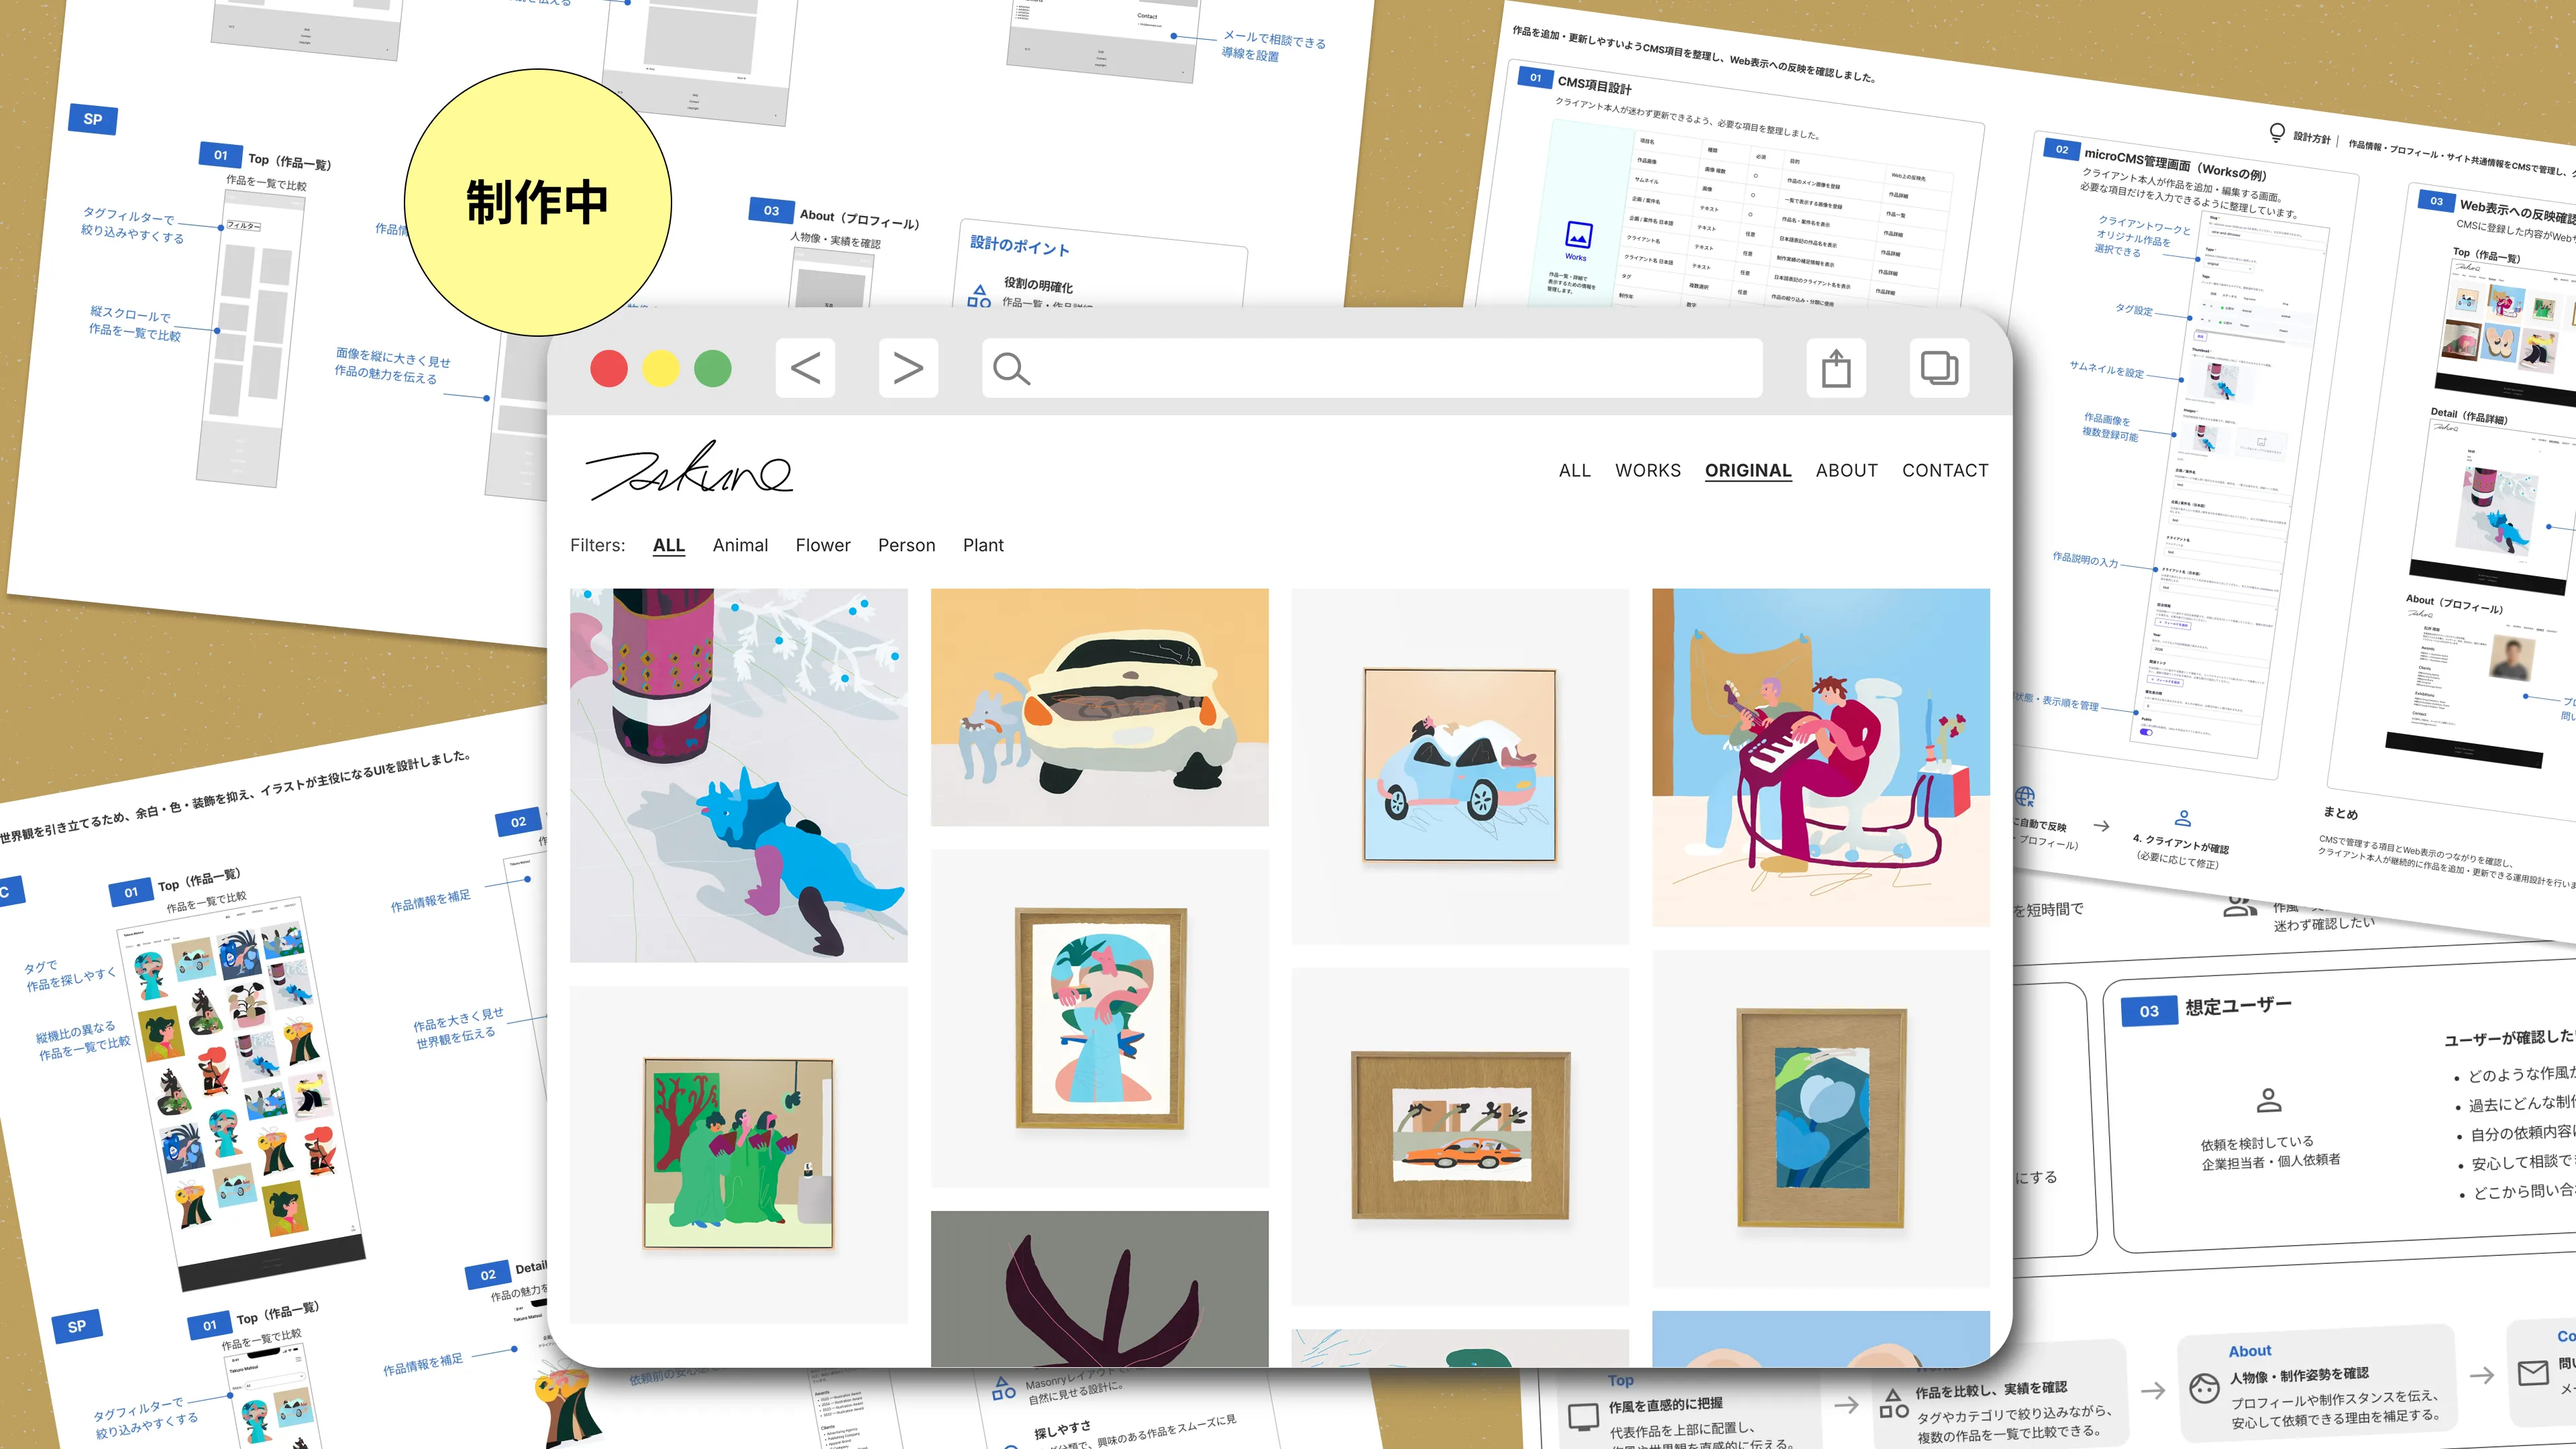
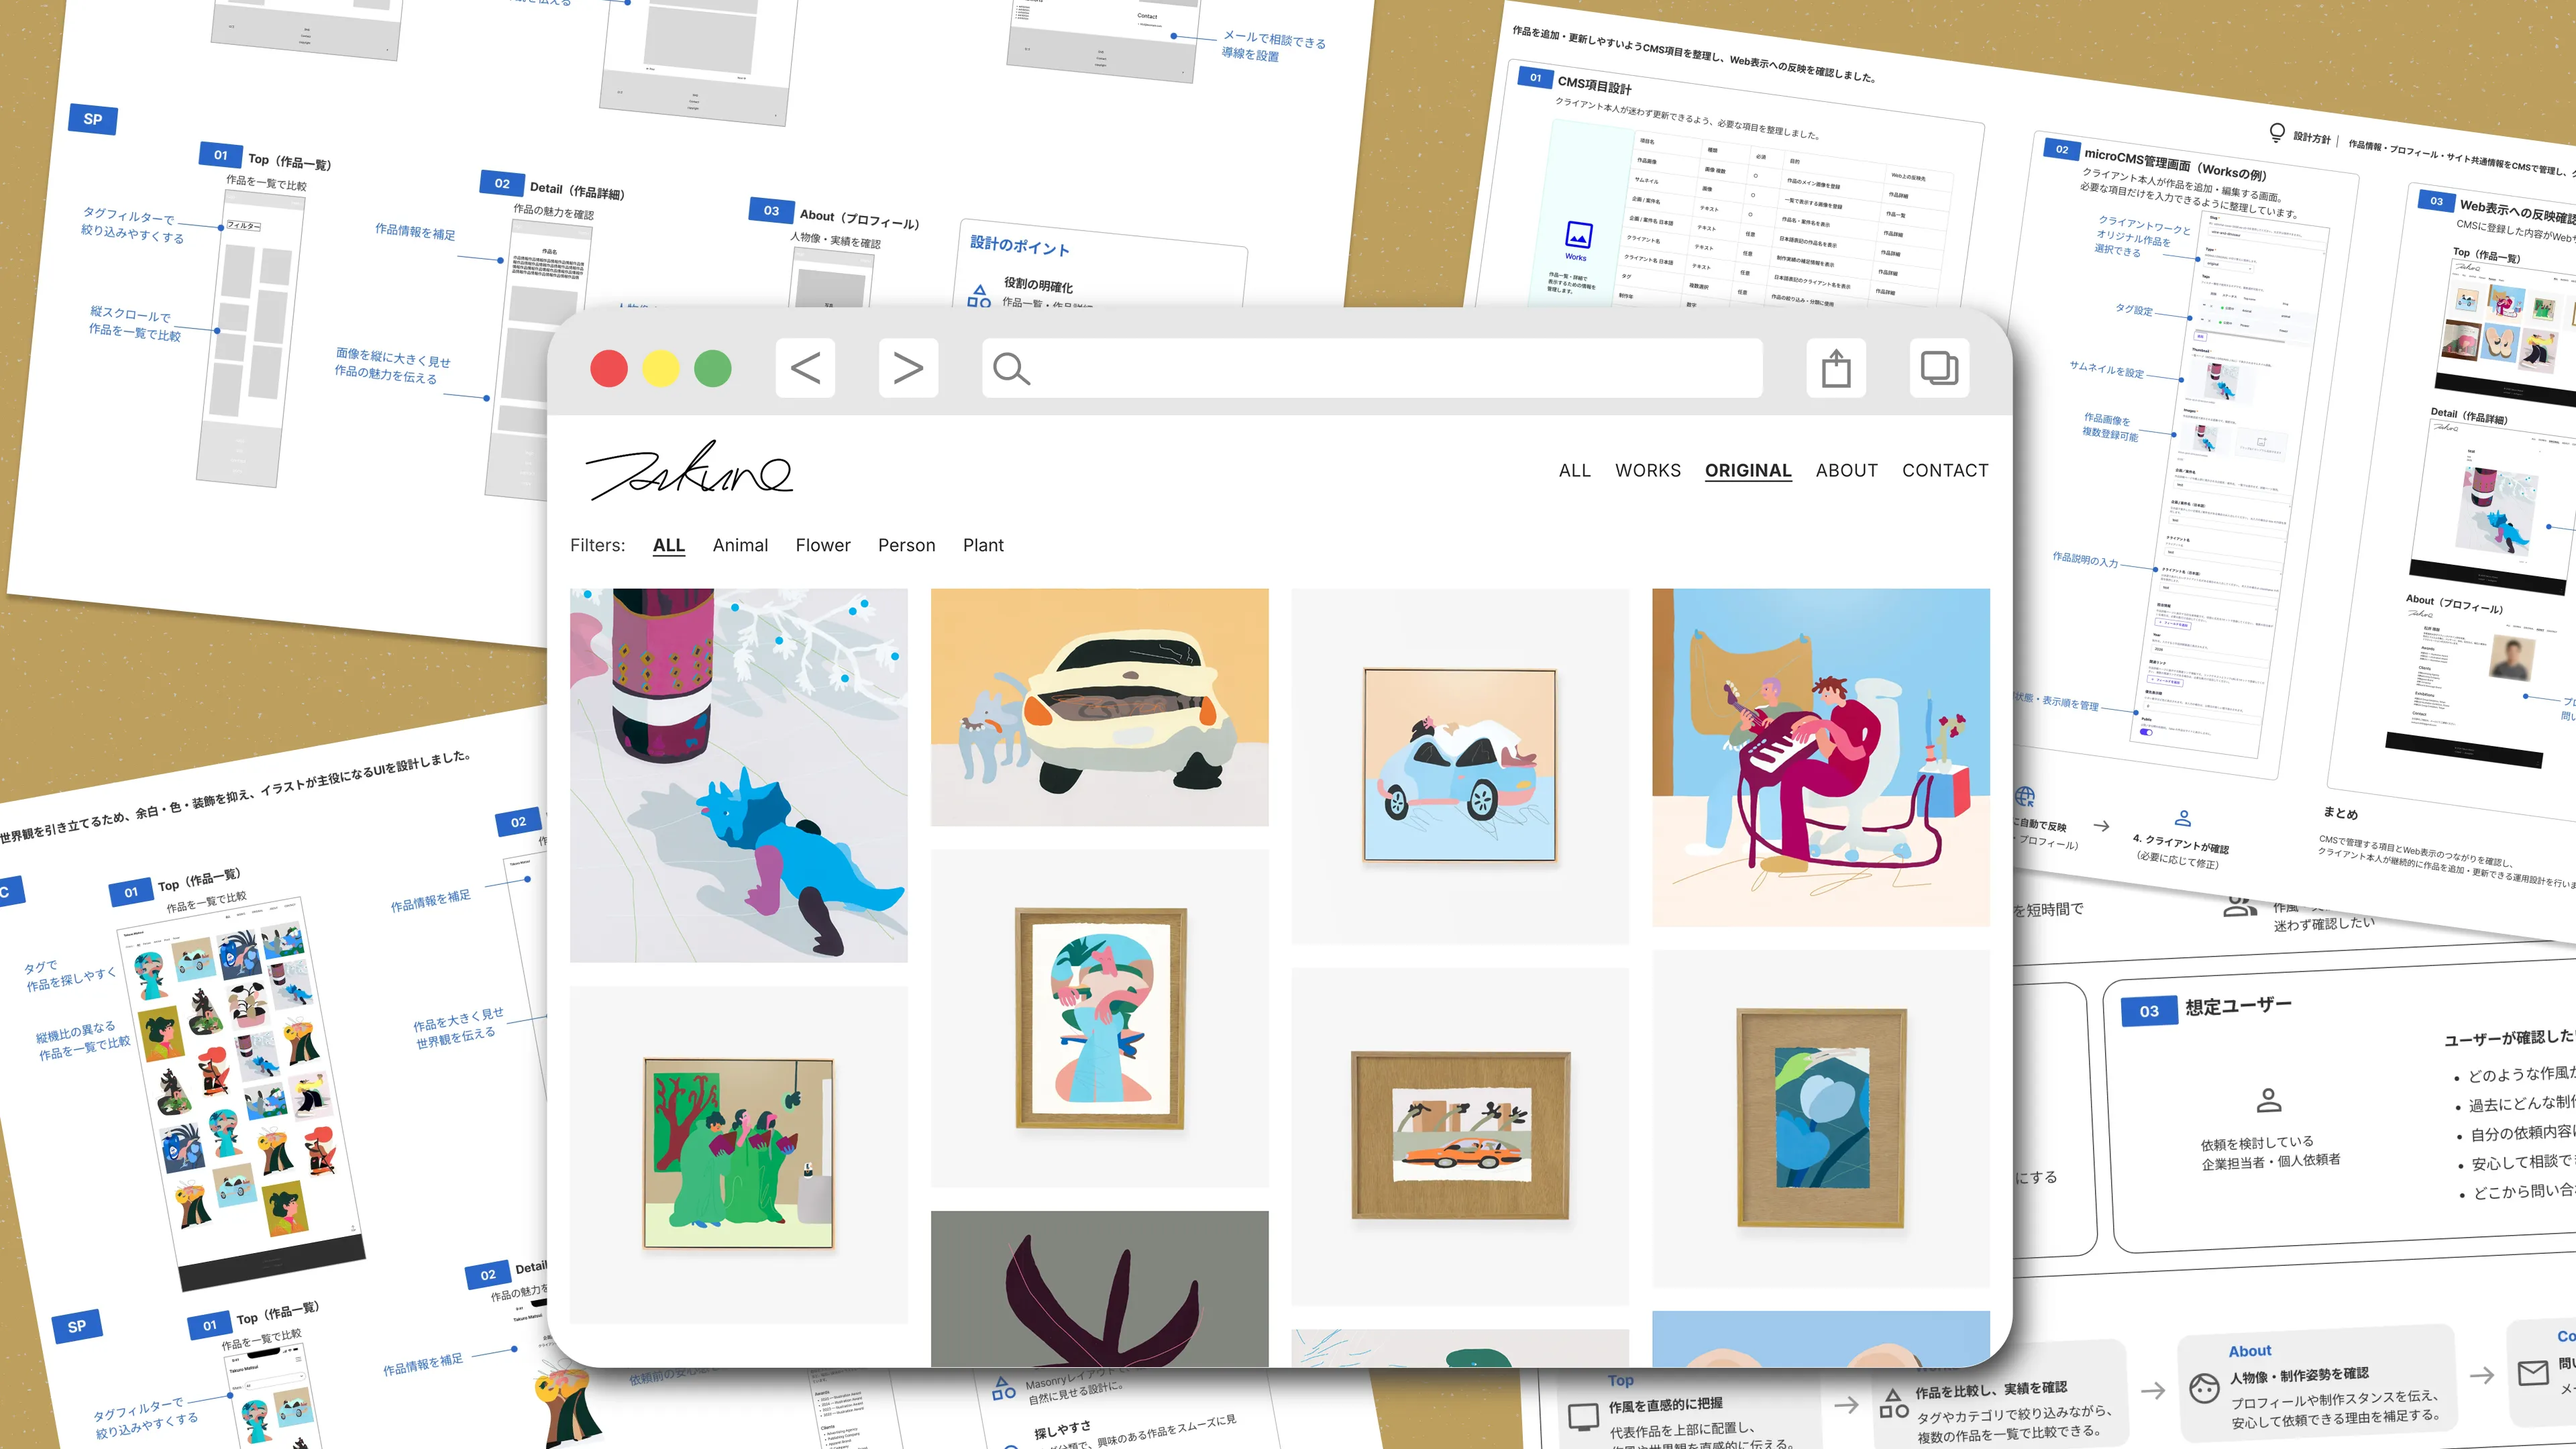
V1.89

Changed region(s): [[0.1562, 0.031, 0.2812, 0.2481]]

diff --git a/data/works/takuro-matsui.ts b/data/works/takuro-matsui.ts
@@ -7,7 +7,7 @@ export const takuroMatsui: Work = {
   category: "Web Design",
   description: "作品・実績・問い合わせ導線を整理したクライアントワーク",
   thumbnail: "/images/works/takuro-matsui/thumbnail.webp",
-  cardAward: "制作中",
+  cardAward: "Client Work",
   summary: {
     challenge:
       "依頼検討者が作風・実績・依頼可否・連絡先を短時間で判断でき、クライアント本人も作品を継続更新できる状態にすること。",
@@ -24,7 +24,7 @@ export const takuroMatsui: Work = {
     },
 
     type: {
-      text: "クライアントワーク / 一部更新中",
+      text: "クライアントワーク / 公開済み",
       font: "sans",
     },
 
@@ -45,7 +45,7 @@ export const takuroMatsui: Work = {
       label: "Overview",
       title: "サイト概要",
       titleFont: "sans",
-      body: "イラストレーター Takuro Matsui 氏の作品・プロフィール・問い合わせ導線を整理したポートフォリオサイトです。依頼検討者が作風・制作実績・依頼可否・連絡先を短時間で確認できる構成にしました。\n\n現在はWeb公開済みで、作品データや一部素材はクライアント側で更新中です。作品の見せ方と公開後の更新しやすさの両立を重視しています。",
+      body: "イラストレーター Takuro Matsui 氏の作品・プロフィール・問い合わせ導線を整理したポートフォリオサイトです。依頼検討者が作風・制作実績・依頼可否・連絡先を短時間で確認できる構成にしました。\n\nWeb公開後もクライアント本人が作品を継続的に追加・更新できるよう、CMSを含めた運用設計まで行っています。作品の見せ方と公開後の更新しやすさの両立を重視しました。",
     },
     {
       type: "text",
@@ -116,10 +116,10 @@ export const takuroMatsui: Work = {
     },
     {
       type: "text",
-      label: "Next",
-      title: "今後の改善",
+      label: "Improvement",
+      title: "公開後の改善",
       titleFont: "sans",
-      body: "今後は、クライアント側の作品データ更新に合わせて、Aboutページで伝える制作姿勢、依頼可能な内容、Contact導線の分かりやすさをさらに調整していく予定です。\n\n公開後は、作品一覧から作品詳細への遷移、問い合わせ前に必要な情報へ到達できるか、クライアント本人がCMSで作品を追加しやすいかを確認します。",
+      body: "公開後は、クライアントによる作品追加や運用状況を確認しながら、Aboutページで伝える制作姿勢や依頼可能な内容、Contact導線の分かりやすさを継続的に改善していきます。\n\nあわせて、作品一覧から作品詳細への遷移や、問い合わせ前に必要な情報へ到達しやすいか、クライアント本人がCMSで迷わず作品を追加できるかを確認し、必要に応じて調整します。",
     },
     {
       type: "text",

diff --git a/data/works/index.ts b/data/works/index.ts
@@ -8,12 +8,12 @@ import { takuroMatsui } from "./takuro-matsui";
 import { kaguConcierge } from "./kagu-concierge";
 
 export const works = [
-  specDrivenPrototyping,
-  adCompass,
   resonote,
+  specDrivenPrototyping,
+  takuroMatsui,
+  adCompass,
   hiketane,
   kaguConcierge,
   taskDelivery,
   naterra,
-  takuroMatsui,
 ];
